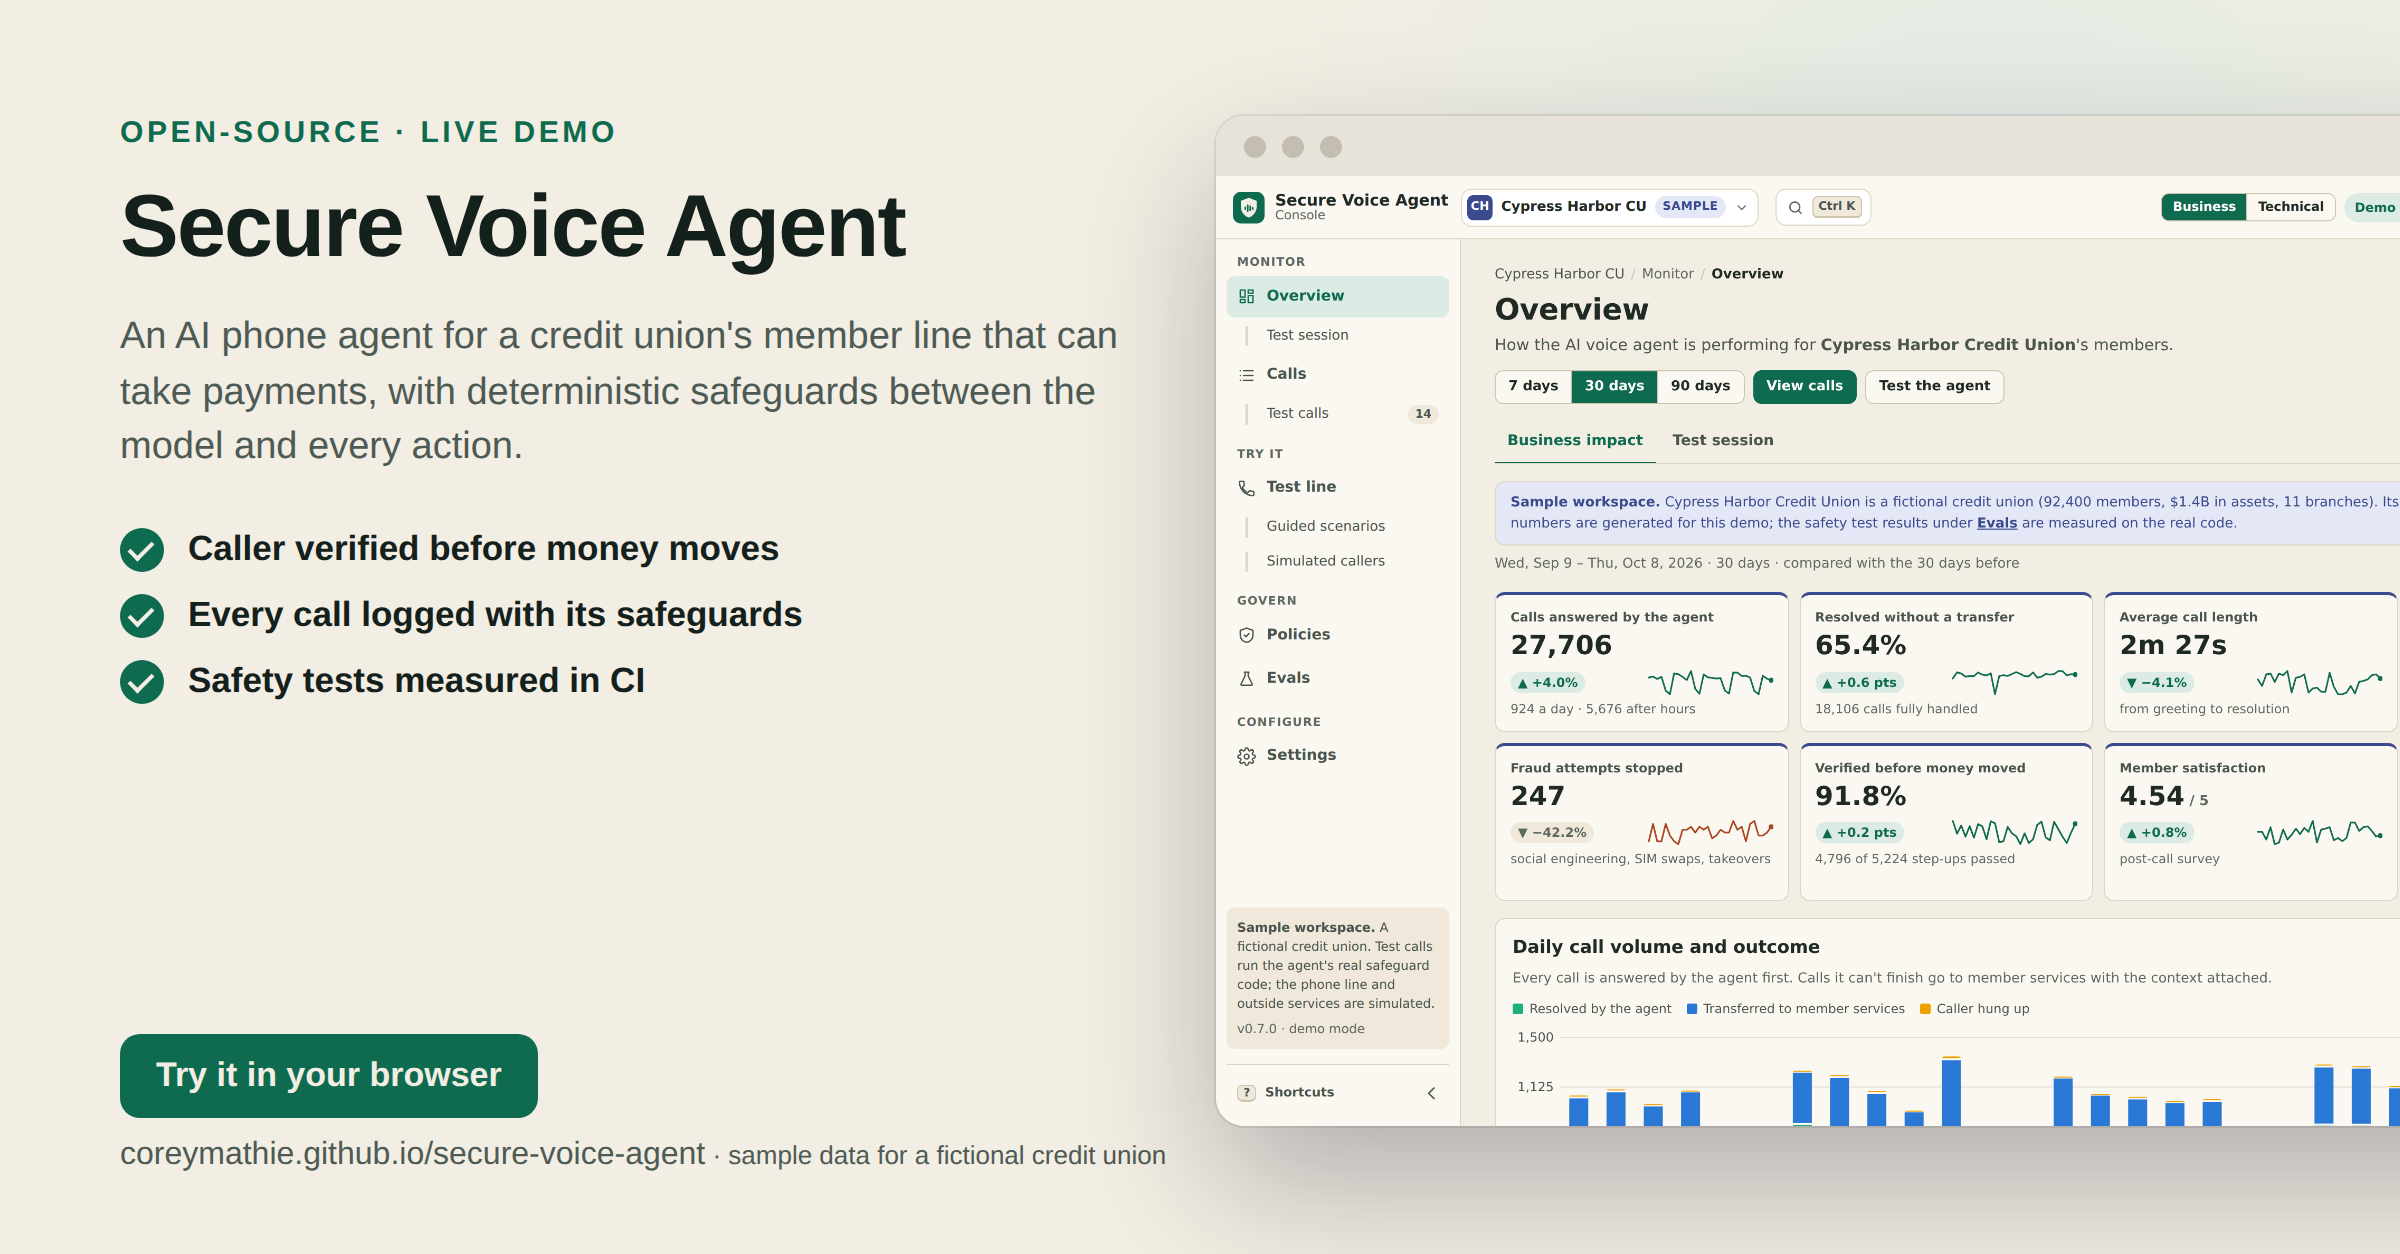
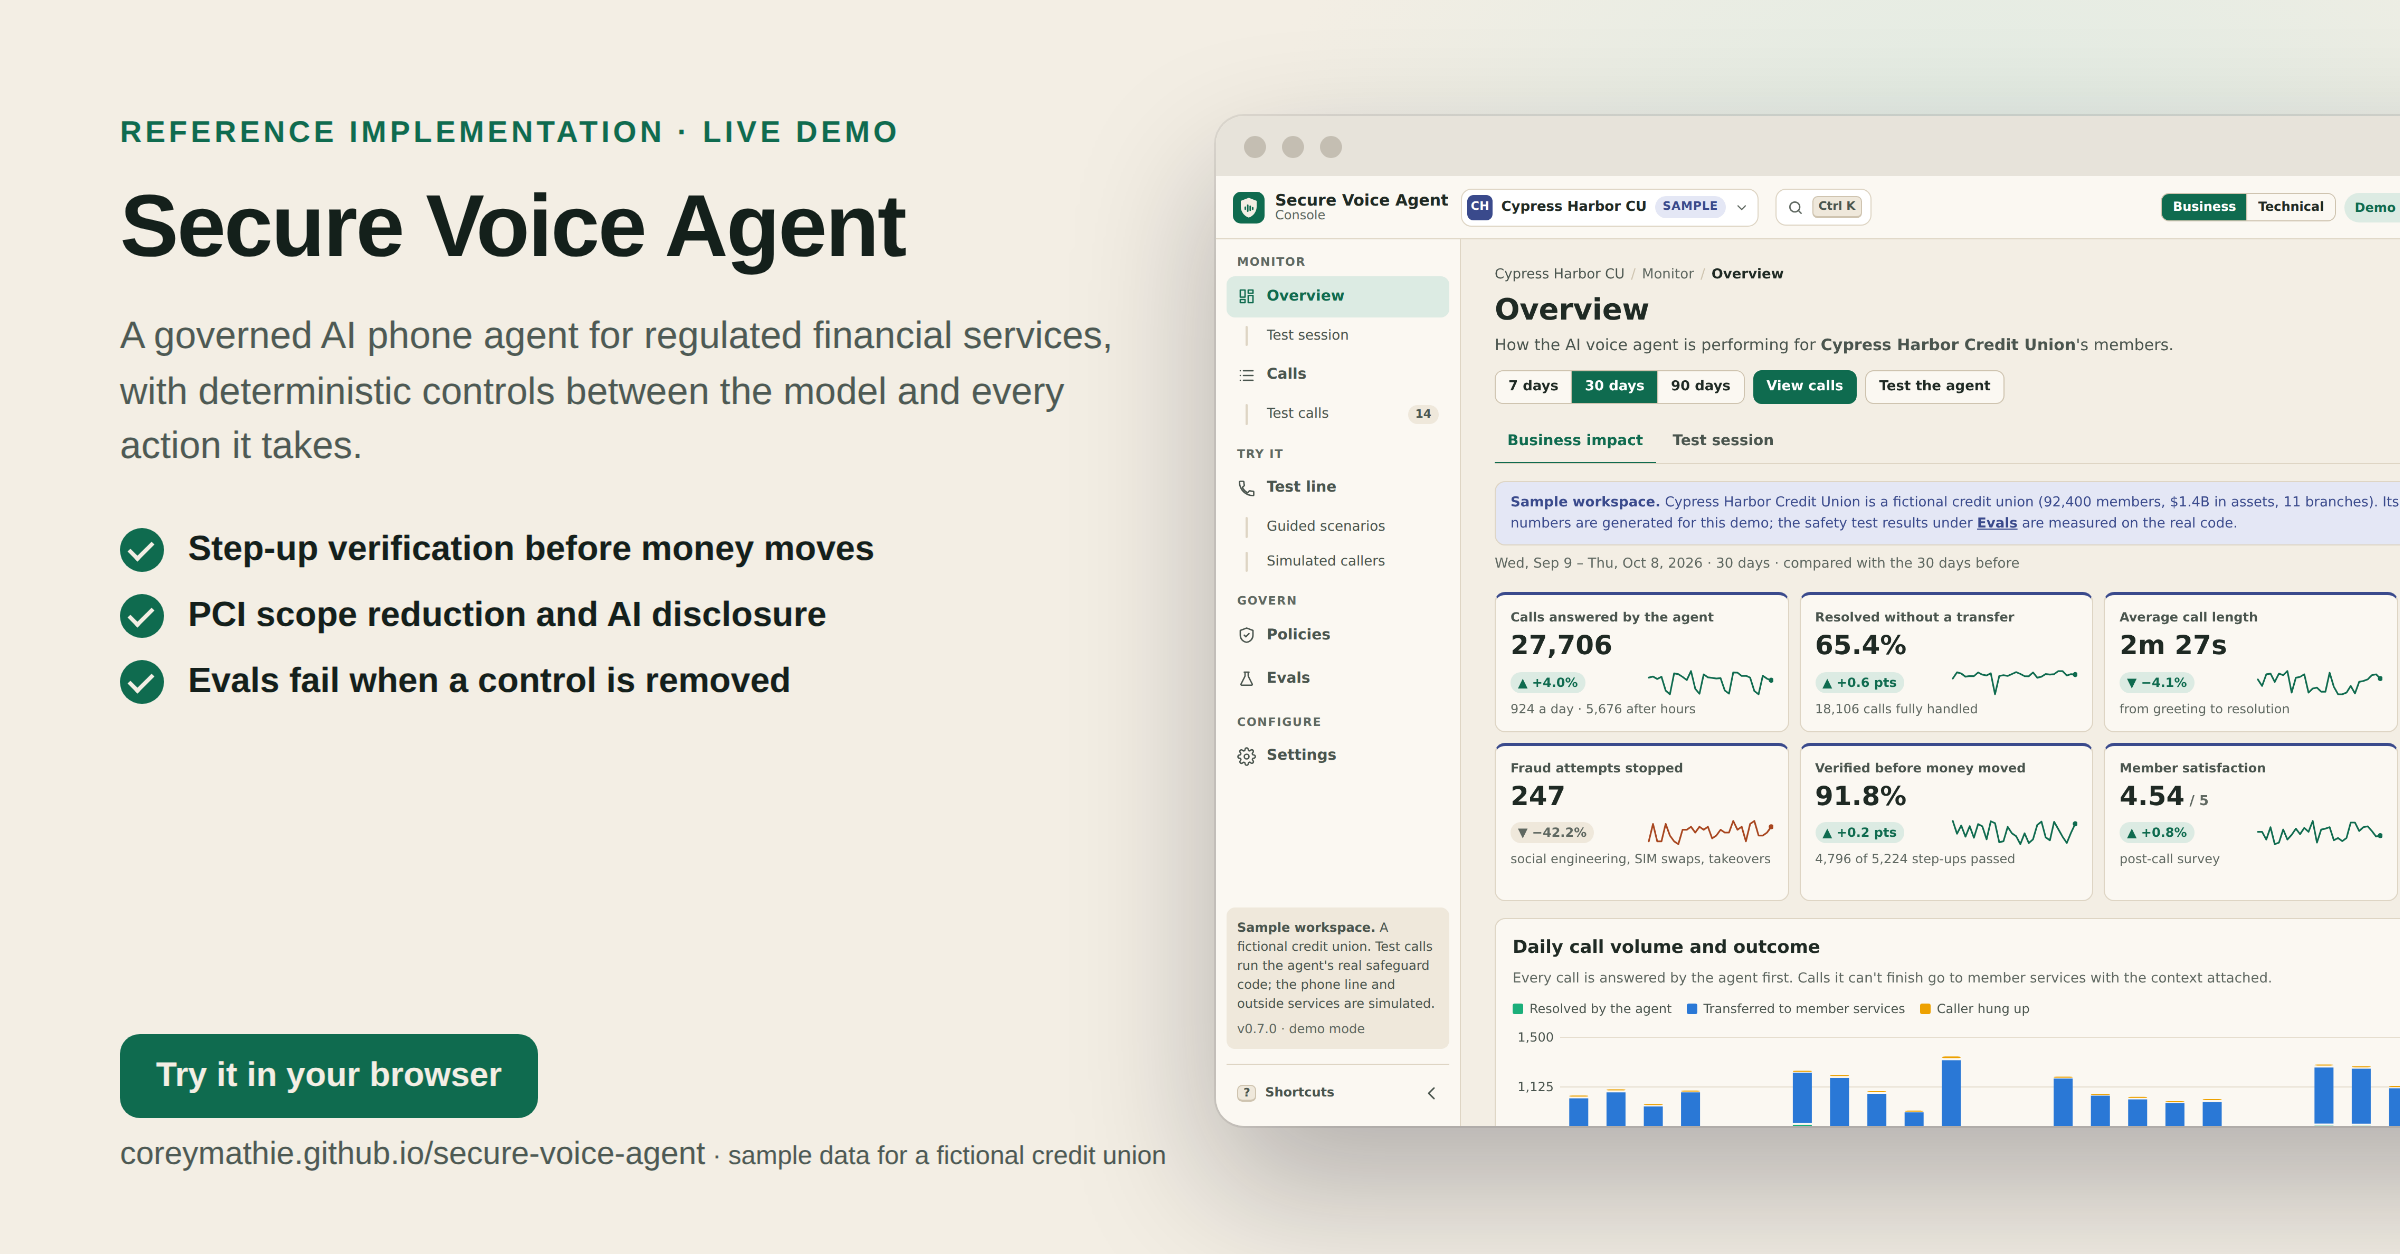
README at-a-glance summary; link-preview card and text aligned with the reference-architecture positioning
The executive summary becomes an at-a-glance table (problem, architecture, key decisions, controls,
evidence, out of scope, live demo), carried over from the superseded readme-architecture branch.
The LinkedIn link-preview card and its Open Graph title and description now use the same positioning.

Changed region(s): [[0.0312, 0.2488, 0.4688, 0.3732], [0.0625, 0.4043, 0.375, 0.5598], [0.0312, 0.0933, 0.375, 0.1244]]

diff --git a/demo/index.html b/demo/index.html
@@ -9,8 +9,8 @@
 <!-- Link previews (LinkedIn, Slack, X): demo/social-card.png -->
 <meta property="og:type" content="website" />
 <meta property="og:site_name" content="Corey Mathie · open-source projects" />
-<meta property="og:title" content="Secure Voice Agent: an AI phone agent that can take payments safely" />
-<meta property="og:description" content="An AI phone agent for a credit union's member line, with deterministic safeguards between the model and every action. Live demo runs in your browser." />
+<meta property="og:title" content="Secure Voice Agent: a governed AI phone agent for regulated financial services" />
+<meta property="og:description" content="Reference implementation: deterministic controls between the model and every action, with step-up verification, PCI scope reduction, AI disclosure and evals that fail when a control is removed. Live demo runs in the browser." />
 <meta property="og:url" content="https://coreymathie.github.io/secure-voice-agent/demo/" />
 <meta property="og:image" content="https://coreymathie.github.io/secure-voice-agent/demo/social-card.png" />
 <meta property="og:image:width" content="2400" />

diff --git a/README.md b/README.md
@@ -7,13 +7,17 @@
 
 **A reference implementation of a governed phone agent for regulated financial services: an AI agent that takes payments and writes to business systems, with deterministic controls between the model and every action it takes.**
 
-## Executive summary
+## At a glance
 
-- **Business problem.** A credit union or bank that puts an AI agent on its member line hands an untrusted caller a model that can send payment links, change contact details and write into the CRM, ticketing and calendar systems. Prompt rules do not hold against a determined social engineer, and callers read card numbers and SSNs aloud into whatever the agent is filling in.
-- **Architectural approach.** The model proposes; plain, testable code decides. Every tool call passes through one safeguard layer (`make_handler()`) before anything executes. Short, stateless tools run on AWS Lambda behind HMAC-signed requests; each call holds one long-lived worker on Fly.io or ECS. The safeguards do not depend on the voice provider.
-- **Key controls.** A default-deny policy gate with social-engineering scoring and per-call blast-radius caps, step-up verification to the phone on file (caller ID is never identity), velocity limits, identifier scrubbing, a hash-chained audit log, idempotent money movement, PCI scope reduction by pay-by-link or keypad capture, and AI disclosure with recording consent before the agent connects. The control set applies patterns from card-fraud and dispute operations to an AI agent.
-- **Evidence.** 417 pytest tests, 31/31 call-eval scenarios through the real stack, 22 mutation tests that switch controls off and confirm the evals fail, 14 simulated callers (7/7 benign succeeded, 7/7 adversarial stopped, 0 benign blocked; scripted and text-level, not a measured rate on real calls), and a 138-check browser smoke test of the console.
-- **Out of scope.** No latency or cost figures are published (none have been measured here); no live model or synthetic speech drives the evals; Twilio `<Pay>`, Twilio Verify and SIM-swap data sources are not exercised; nothing here is a compliance certification.
+| | |
+|---|---|
+| **Problem** | An agent on a public phone number holds tools that send payment links and write to the calendar, ticketing and CRM. Callers apply social engineering and read card numbers and SSNs aloud. |
+| **Architecture** | Twilio → one long-lived Pipecat worker per call (Fly.io or ECS) → safeguard layer → HMAC-signed, idempotent tool handlers on AWS Lambda + DynamoDB. |
+| **Key decisions** | Safeguards in code, not prompts or a judge model; provider-independent (speech-to-speech default, cascaded as a swap); payment links pinned to the calling number. [4 ADRs](#key-decisions-and-trade-offs). |
+| **Controls** | Default-deny allow-list, social-engineering scoring, step-up verification to the phone on file, per-call caps, velocity limits, identifier scrubbing, hash-chained audit, idempotency, signed requests. Policy as code in [`config/policy.yaml`](config/policy.yaml). |
+| **Evidence** | 417 pytest tests, including 22 mutation tests that switch controls off; 31/31 call evals; 14 simulated callers (7/7 benign served, 7/7 adversarial stopped, 0 benign blocked; scripted and text-level, not a measured rate on real calls); a 138-check browser smoke test of the console. |
+| **Out of scope** | No latency or cost figures are published (none have been measured here); no live model or synthetic speech drives the evals; Twilio `<Pay>`, Twilio Verify and SIM-swap data sources are not exercised; nothing here is a compliance certification. |
+| **Try it** | [Live console](https://coreymathie.github.io/secure-voice-agent/demo/): the repo's real safeguard code running in the browser through Pyodide. No backend, no keys. |
 
 ## Live demo
 
